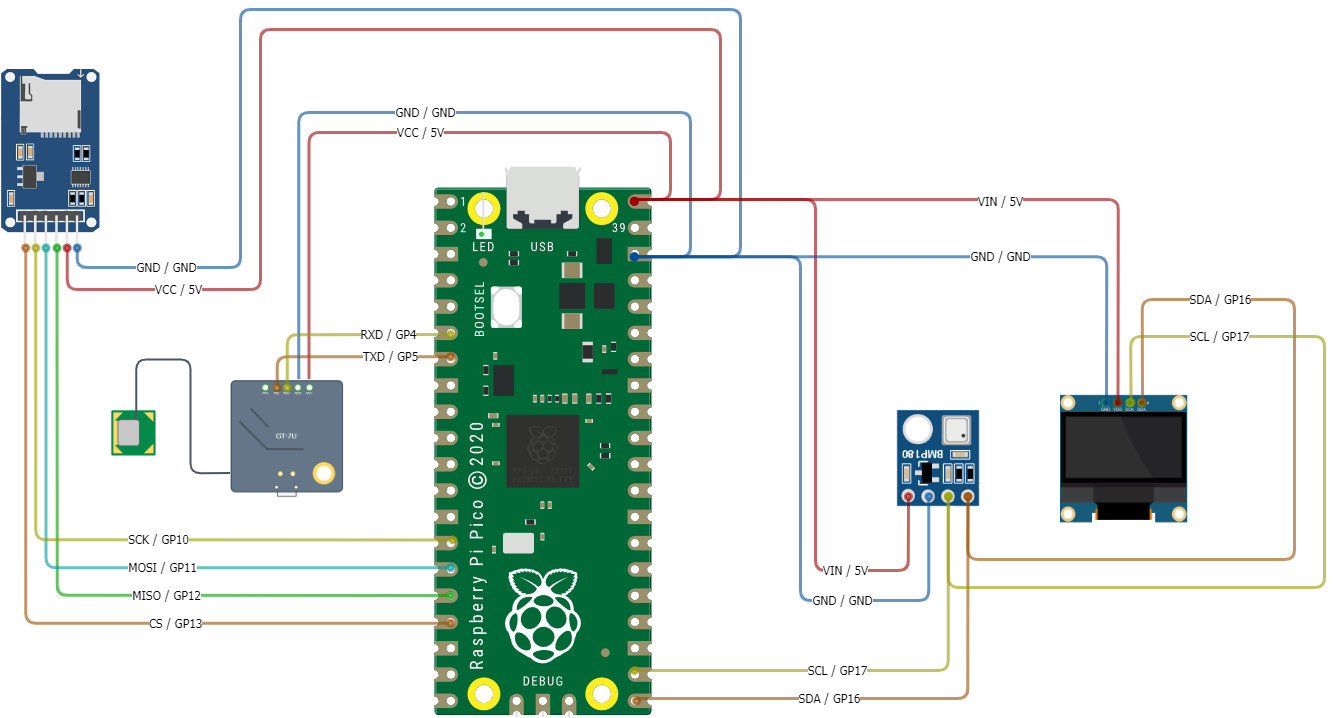
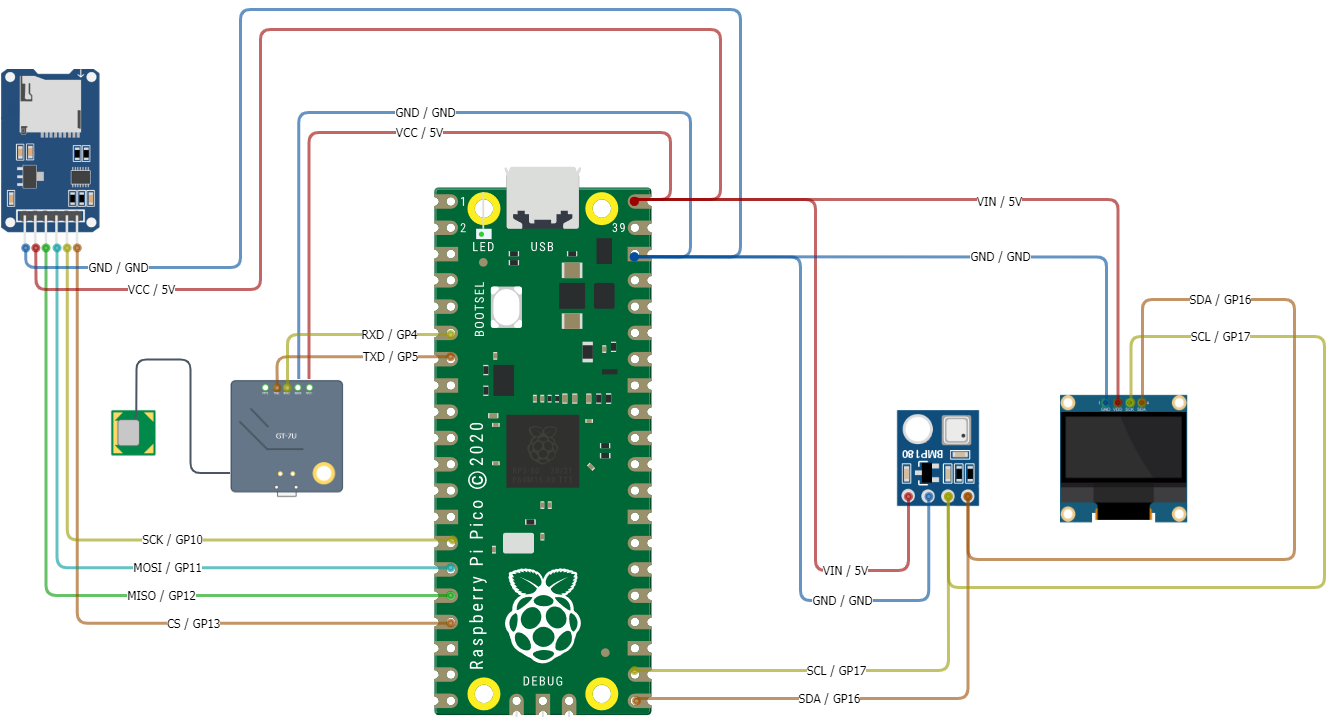
refactor: updated flow of modules; fixed wiring diagram

diff --git a/telemetry/raspberry-pi-pico/python/lesson-8/README.md b/telemetry/raspberry-pi-pico/python/lesson-8/README.md
@@ -17,39 +17,39 @@
 ### Results
 * A field-ready prototype of all modules capable of accurately and reliably collecting data.
 
-<br><br>
-
 ## Steps
 
 ### Wire All the Modules into the Breadboard
 
 **IMPORTANT** Before wiring your Pico, UNPLUG IT FROM YOUR COMPUTER. If plugged in while wiring, you risk damaging the Pico or SDCard reader.
 
+It is recommended to wire each module in the order listed below. After you wire one module, test the code by uncommenting the code block for that module. By taking this approach, we can debug any modules that may not be working as expected using the troubleshooting techniques learned in pervious lessons.
+
 Module/Controller Pin | Description | Breadboard (BB) / Pi Pico Pins
 ----------- | ----------- | ------------
-**SD Card Module** | |
+**SSD1306 OLED Display** | |
+GND          | (Voltage Common Collector): Provides power to the module. Connect to the 5V pin on Pico | GND (38)
+VCC          | (Ground): Connect to the ground pin on Pico | 5V (40)
+SCL          | (Serial Clock): Accepts clock pulses from the Pico to synchronize data transmission | GP10 (17)
+SDA          | (Serial Data): Used for data exchange | GP16 (16)
+**SD Card** | |
 VCC         | (Voltage Common Collector): Provides power to the HW-125.  | BB Power (+)
 GND         | Ground | BB Ground (-)
 SCK         | (Serial Clock): Accepts clock pulses from the Pico to synchronize data transmission | GP10 (14)
 MOSI        | (Master Out Slave In): SPI input to microSD card module | GP11 (15)
 MISO        | (Master In Slave Out): SPI output from the microSD card module | GP12 (16)
-CS          | (Chip Select): Control pin used to select one (or set) of devices on the SPI bus | GP13 (17) 
+CS          | (Chip Select): Control pin used to select one (or set) of devices on the SPI bus | GP13 (17)
+**Pressure Temperature Sensor** | |
+VIN          | (Voltage In): Provides power to the BMP-180.  | BB Power (+)
+GND          | Ground | BB Ground (-)
+SCL          | (Serial Clock): Accepts clock pulses from the Pico to synchronize data transmission | GP17 (22)
+SDA          | (Serial Data): Used for data exchange | GP16 (21)
 **GPS Sensor** | |
 VCC          | (Voltage In): Provides power.  | BB Power (+)
 GND          | Ground | BB Ground (-)
 PPS          | (Pulse Per Second): Assists with synchronization | N/A
 TXD          | (Transmit): Transmission pin used for serial communication | UART1 RX / GP5 (7)
 RXD          | (Receive): Receiver pin used for serial communication | UART1 TX / GP4 (6)
-**Pressure Temperature Sensor** | |
-VIN          | (Voltage In): Provides power to the BMP-180.  | BB Power (+)
-GND          | Ground | BB Ground (-)
-SCL          | (Serial Clock): Accepts clock pulses from the Pico to synchronize data transmission | GP17 (22)
-SDA          | (Serial Data): Used for data exchange | GP16 (21)
-**SSD1306 OLED Display Module** | |
-GND          | (Voltage Common Collector): Provides power to the module. Connect to the 5V pin on Pico | GND (38)
-VCC          | (Ground): Connect to the ground pin on Pico | 5V (40)
-SCL          | (Serial Clock): Accepts clock pulses from the Pico to synchronize data transmission | GP10 (17)
-SDA          | (Serial Data): Used for data exchange | GP16 (16)
 **Raspberry Pico** | |
 5V (40)      | (Voltage In): Provides power.  | BB Power (+)
 GND (38)     | Ground | BB Ground (-)
